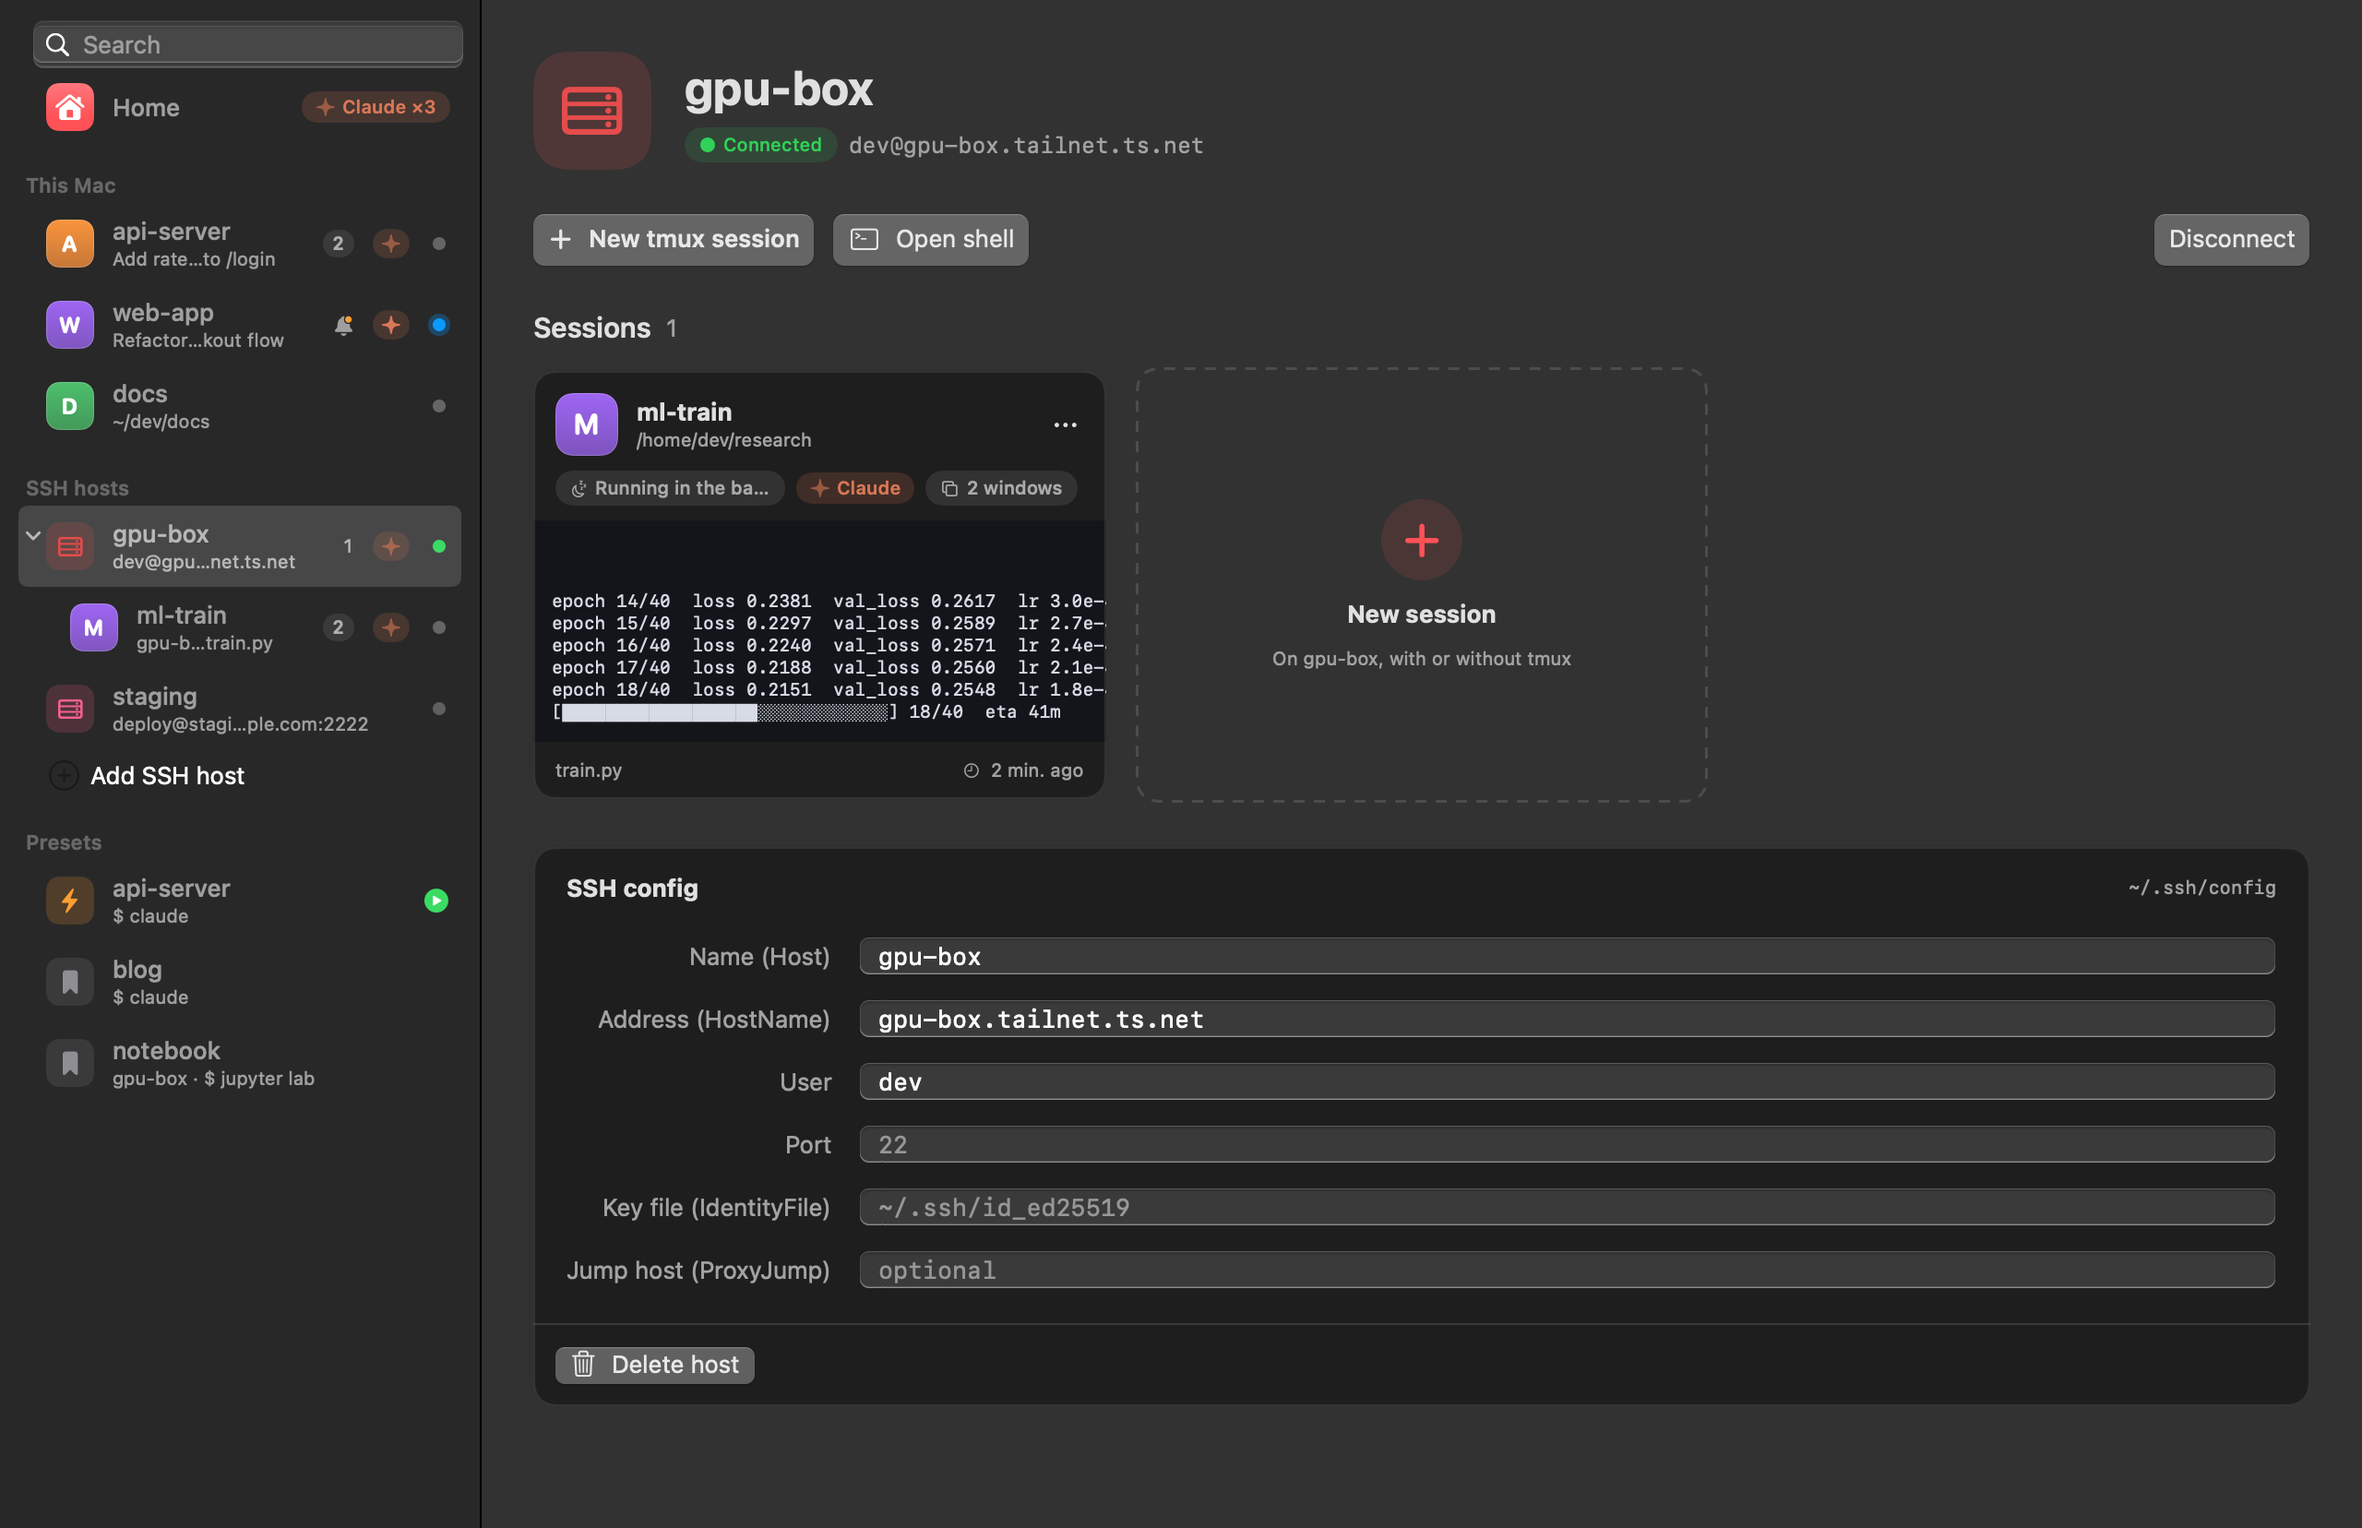
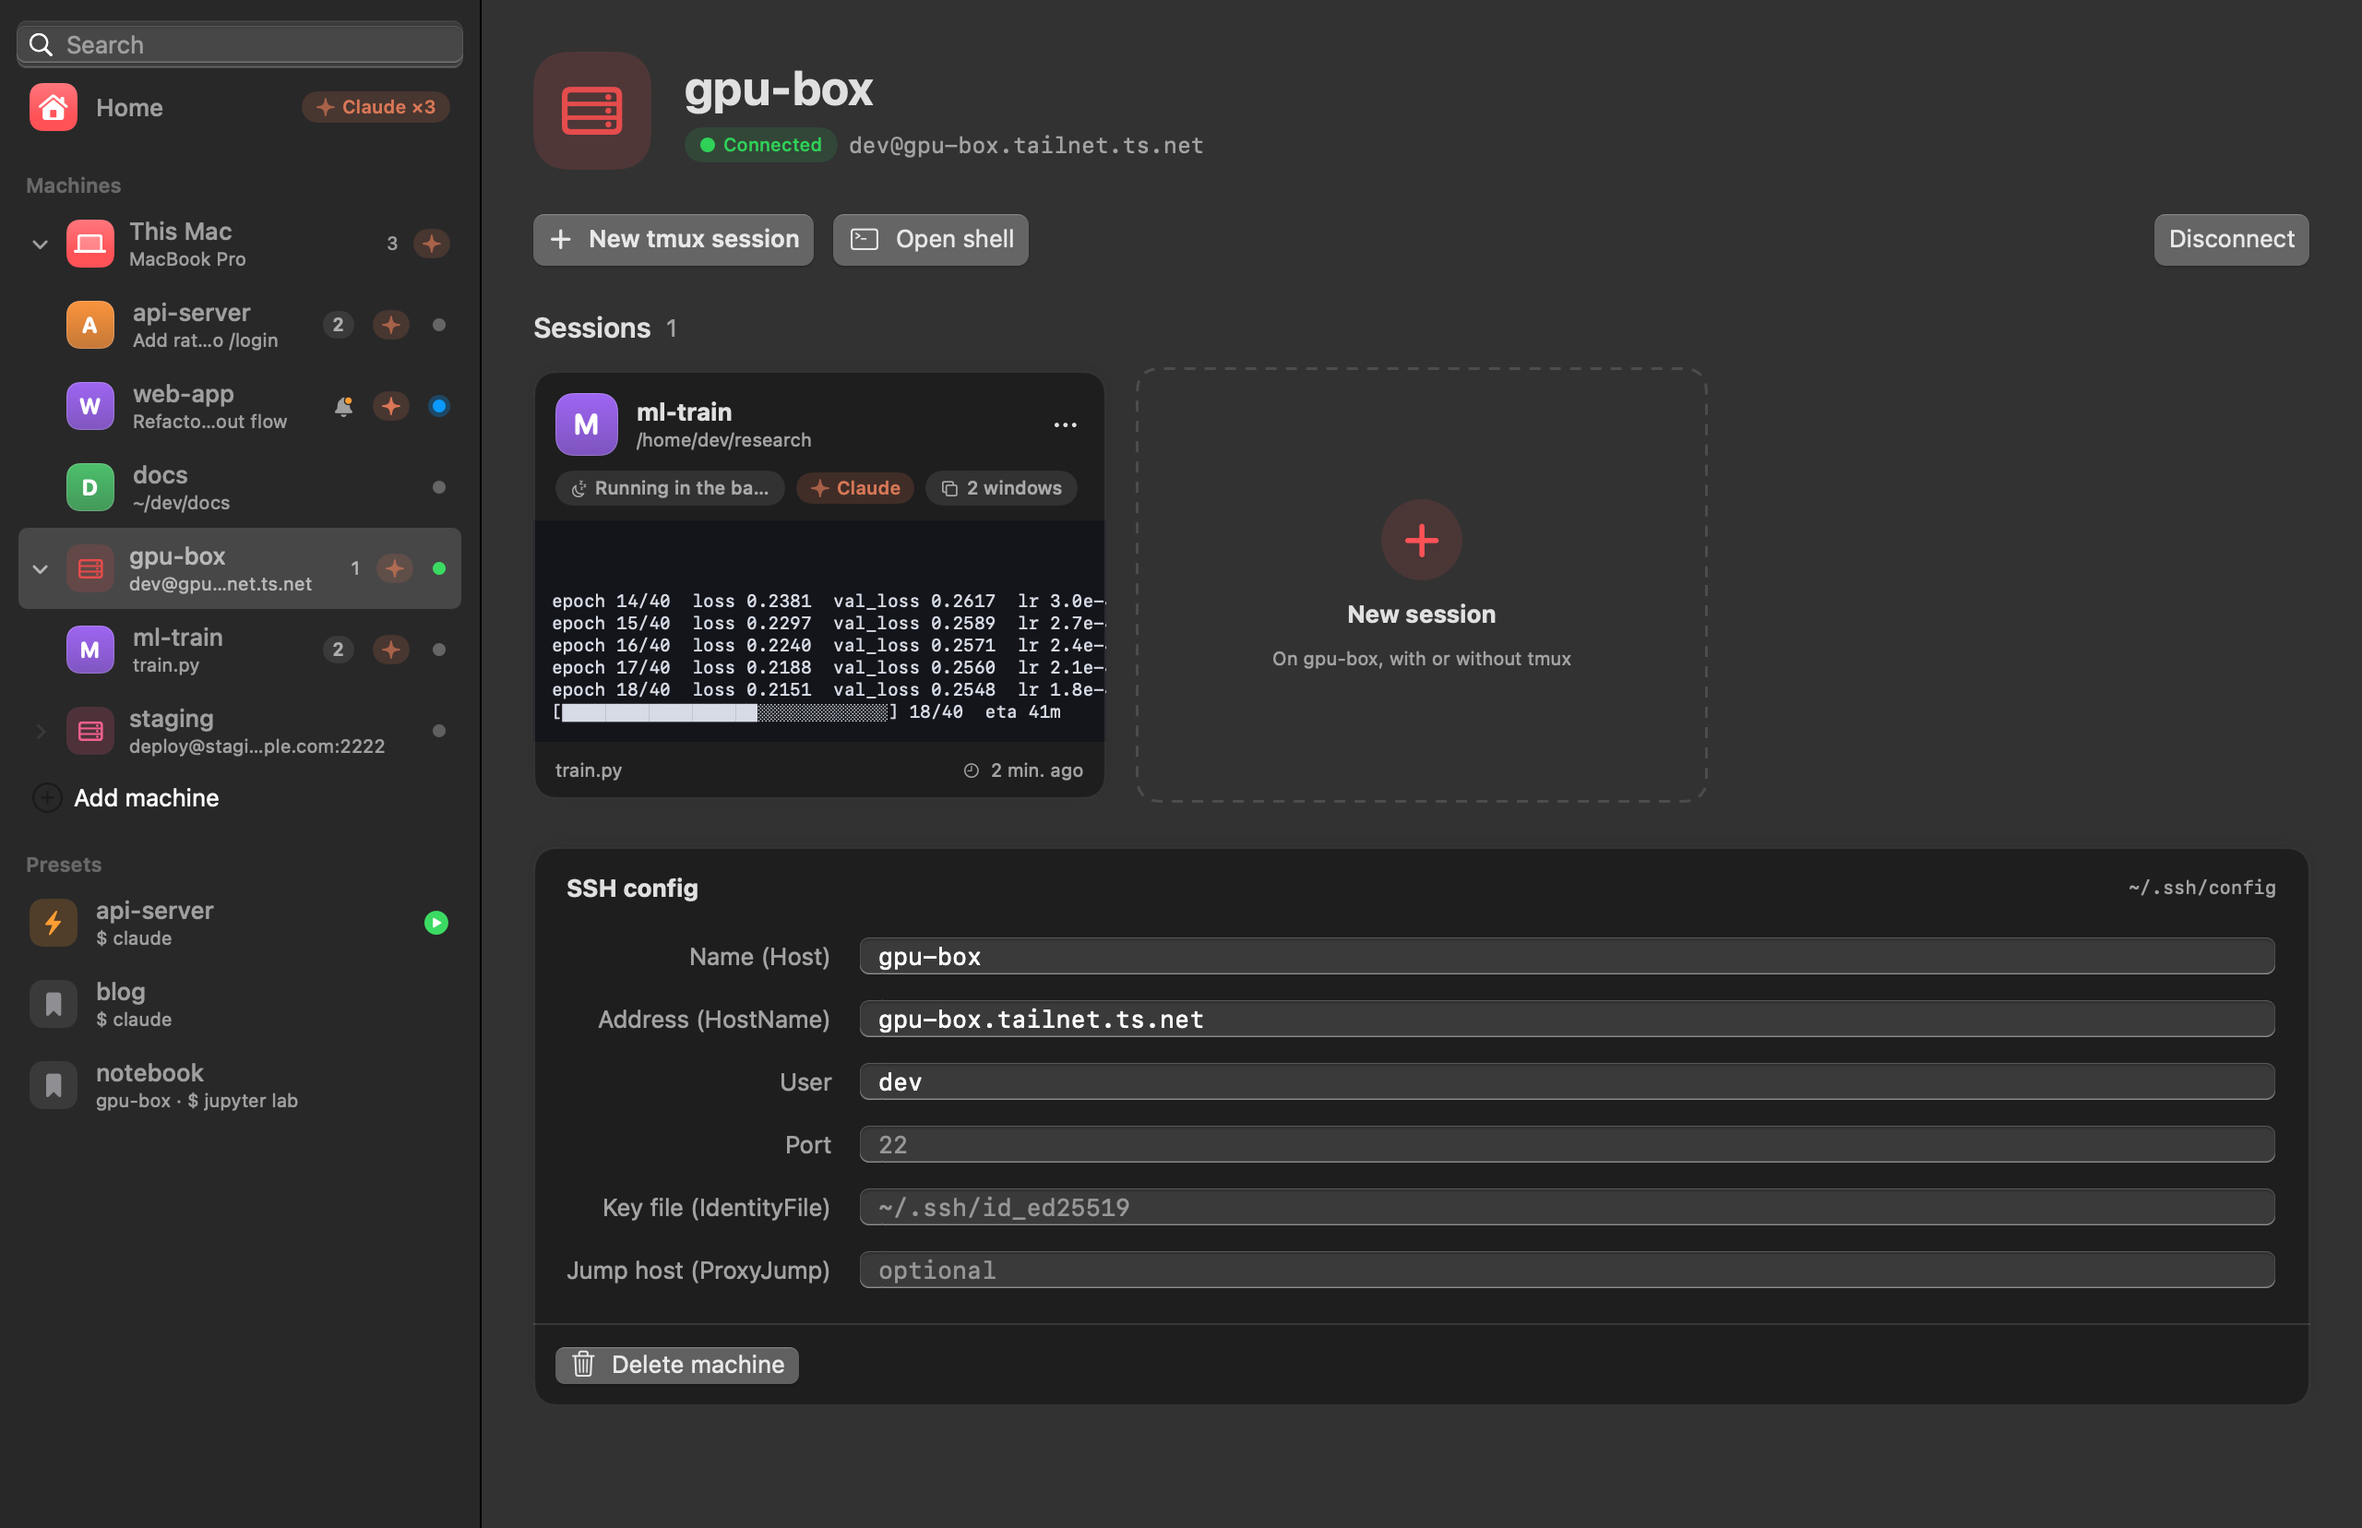
Initia 0.6.5-beta

diff --git a/README.md b/README.md
@@ -1,12 +1,12 @@
 # Initia
 
-**A tmux-native terminal for macOS.** Browse every tmux session, watch it live, and work in it from a built-in terminal. Or open it in iTerm2, Terminal or cmux with one click.
+**A tmux-native terminal for macOS.** See every tmux session on your Mac and on your servers, watch them live, know when Claude Code is done, and work in them from a built-in terminal.
 
 > Status: **public beta**, free during the beta.
 
 <picture>
   <source media="(prefers-color-scheme: dark)" srcset="screenshots/home-dark.png">
-  <img src="screenshots/home.png" alt="Initia home: every tmux session as a card with a live preview, Claude status, and SSH hosts in the sidebar">
+  <img src="screenshots/home.png" alt="Initia home: every tmux session as a card with a live preview and Claude status, with machines and their sessions in the sidebar">
 </picture>
 
 <table>
@@ -17,25 +17,39 @@
 </picture></td>
 <td><picture>
   <source media="(prefers-color-scheme: dark)" srcset="screenshots/ssh-host-dark.png">
-  <img src="screenshots/ssh-host.png" alt="An SSH host: its remote tmux sessions and the editable ssh config entry">
+  <img src="screenshots/ssh-host.png" alt="A remote machine over SSH: its tmux sessions and the editable ssh config entry">
 </picture></td>
 </tr>
 <tr>
 <td align="center">Live overview of every window</td>
-<td align="center">Remote tmux sessions over SSH</td>
+<td align="center">A remote machine and its tmux sessions</td>
 </tr>
 </table>
+
+## Why I built Initia
+
+My day runs on tmux. Every project lives in its own tmux session, most of them running Claude Code, and they are spread over several machines: my Mac, a GPU server, a lab server, each reached over SSH and each holding several tmux sessions of its own.
+
+A plain terminal made me do all the bookkeeping by hand. Which session is on which machine? Is Claude in that one done, or still working, or waiting for me? What was the folder and command for that project again? I kept typing `ssh`, then `tmux ls`, then `tmux attach -t …`, over and over.
+
+Initia is the app I wanted for that:
+
+- **Manage tmux sessions comfortably.** Every session is a card with a live preview. Open, rename, split into windows, or close it in a click, and closing a tab never kills the work
+- **Presets for the things you start every day.** A machine, a folder and a startup command (like `claude`) become one click, or start on their own when Initia launches
+- **Know when Claude is done.** Initia sees which sessions run Claude Code and whether it is working or waiting, and notifies you when it finishes, even on a remote server
+- **Many machines, one window.** Your `~/.ssh/config` machines sit next to this Mac. Connect once and see every tmux session running on each of them, and open any of them in a tab
+- **A home, not just a terminal.** Start from an overview of everything that is running, then dive into a session in Initia's own terminal
 
 ## Features
 
 - **Home**: a start screen with a card for every session, live previews, and a summary of what's running
 - **Built-in terminal**: open any tmux session in a real terminal inside Initia, with a tab for each one. Closing a tab only detaches. Plain terminals without tmux work too (⌘T)
 - **Claude Code aware**: see which sessions run Claude and whether it is working or waiting. Get a notification when Claude finishes, and quit it cleanly with **Exit** (`/exit`, then end the session)
-- **SSH hosts**: your `~/.ssh/config` hosts in the sidebar. Connect (key or password) to browse and open their tmux sessions, and add or edit hosts in the app
+- **Machines**: this Mac and your `~/.ssh/config` machines side by side in the sidebar. Connect (key or password) to see and open each machine's tmux sessions, and add or edit machines in the app. Initia keeps one SSH session per machine, so your server sees a single login
 - **Snippets**: one-click buttons under the terminal that type text for you (`/clear`, `/compact`, …)
 - **Manage tmux**: create sessions; rename sessions and windows; create and close windows
-- **Open anywhere**: iTerm2, Terminal, cmux, Ghostty, WezTerm, kitty, Alacritty
-- **Presets and autostart**: save a device, folder and startup command, and bring your sessions up at login
+- **Opens in Initia by default**, and still one click away in iTerm2, Terminal, cmux, Ghostty, WezTerm, kitty or Alacritty
+- **Presets and autostart**: save a machine, folder and startup command, and bring your sessions up at login
 - **Automatic updates**: Initia checks for new versions and updates itself in one click. Your tmux sessions keep running
 - **Menu bar and Dock**, English and Korean UI
 
@@ -57,7 +71,7 @@ xattr -dr com.apple.quarantine /Applications/Initia.app
 
 ## Presets
 
-A preset is a session you start often: a device, a folder, and a startup command. Start it in one click from Home, or mark it **autostart** to bring it up when Initia launches. A new install comes with an `example` preset that opens Claude Code in your home folder; edit or delete it in the sidebar.
+A preset is a session you start often: a machine, a folder, and a startup command. Start it in one click from Home, or mark it **autostart** to bring it up when Initia launches. A new install comes with an `example` preset that opens Claude Code in your home folder; edit or delete it in the sidebar.
 
 Presets are stored in `~/.config/initia/config.json`, so you can also write them by hand:
 
@@ -68,7 +82,7 @@ Presets are stored in `~/.config/initia/config.json`, so you can also write them
 ]
 ```
 
-`device` is a `Host` name from `~/.ssh/config`. Leave it out for this Mac.
+`device` is the machine's `Host` name from `~/.ssh/config`. Leave it out for this Mac.
 
 ## Configuration
 

diff --git a/CHANGELOG.md b/CHANGELOG.md
@@ -1,5 +1,14 @@
 # Changelog
 
+## 0.6.5-beta
+
+### Changes
+
+- **Machines.** The sidebar now has one Machines section: this Mac and your SSH machines side by side. Expand a machine to see its tmux sessions; click the machine itself for its page (open a shell, start a session, and for SSH machines, connection and config). This Mac gets its own machine page too
+- The sidebar no longer uses the system disclosure control, which could misdraw selection and indentation; sessions under a machine are indented and no longer repeat the machine name
+- **Sessions open in Initia by default** everywhere, including a preset's Open and "Open a specific window". External terminals stay one click away under their own names. Existing settings are switched to Initia once
+- README: why Initia exists, and new screenshots
+
 ## 0.6.4-beta
 
 ### Fixes
